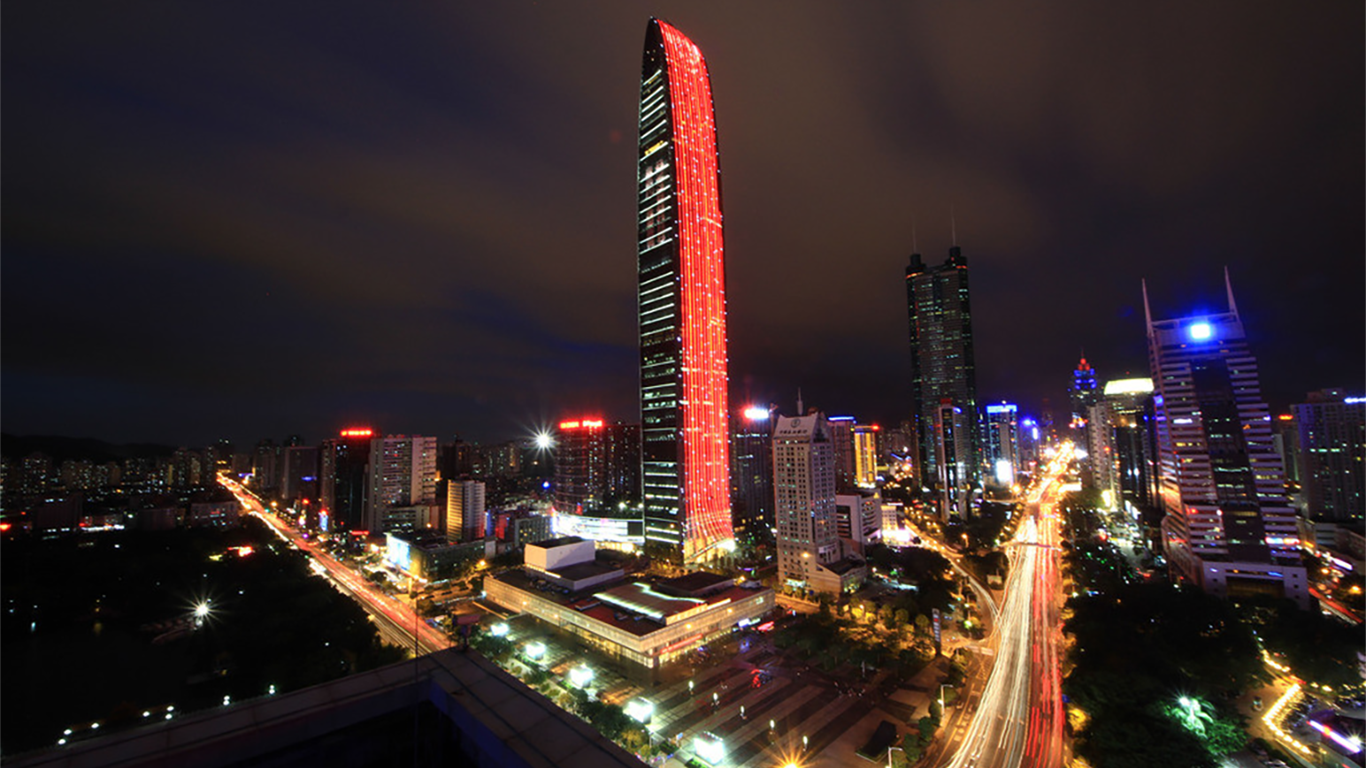
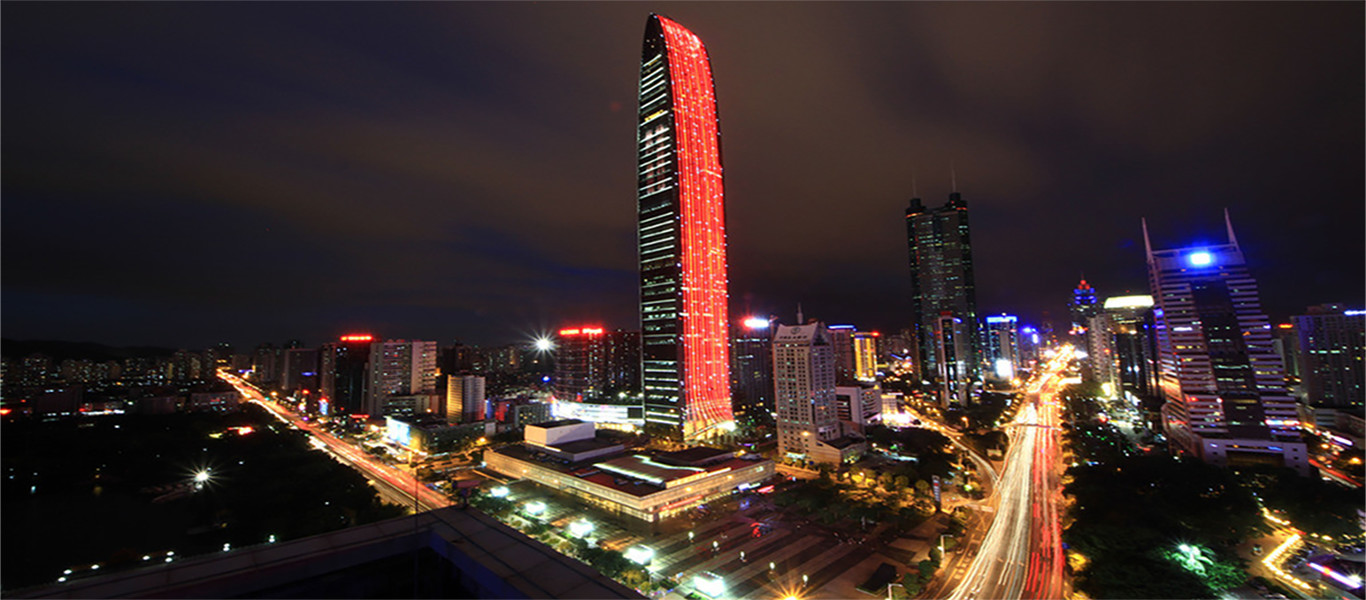
make pictures size down

Changed region(s): [[0.0, 0.99, 0.4612, 1.0], [0.7994, 0.99, 0.8917, 1.0], [0.9839, 0.99, 1.0, 1.0]]

diff --git a/About Me.html b/About Me.html
@@ -28,7 +28,7 @@
   </head>
 
 <body>
-   <div id="headercontainer" style="background-image:url(images/EA1CE8842F20F44CD1AC27E47A451795.jpg)">
+   <div id="headercontainer" style="background-image:url(images/p1383097484.jpg)">
      <div class="inner" id="header"> 
          <div id="navigation_bar">
               <div id="nav_bar_a1">

diff --git a/stylesheets/stylesheet.css b/stylesheets/stylesheet.css
@@ -253,7 +253,7 @@ About Me                                     *
 #about_me_left
 {
 	text-align:center;
-	background-image:url(../images/6.png);
+	background-image:url(../images/7.png);
 	background-size:cover; 
 	display:none; 
 	width:25%;
